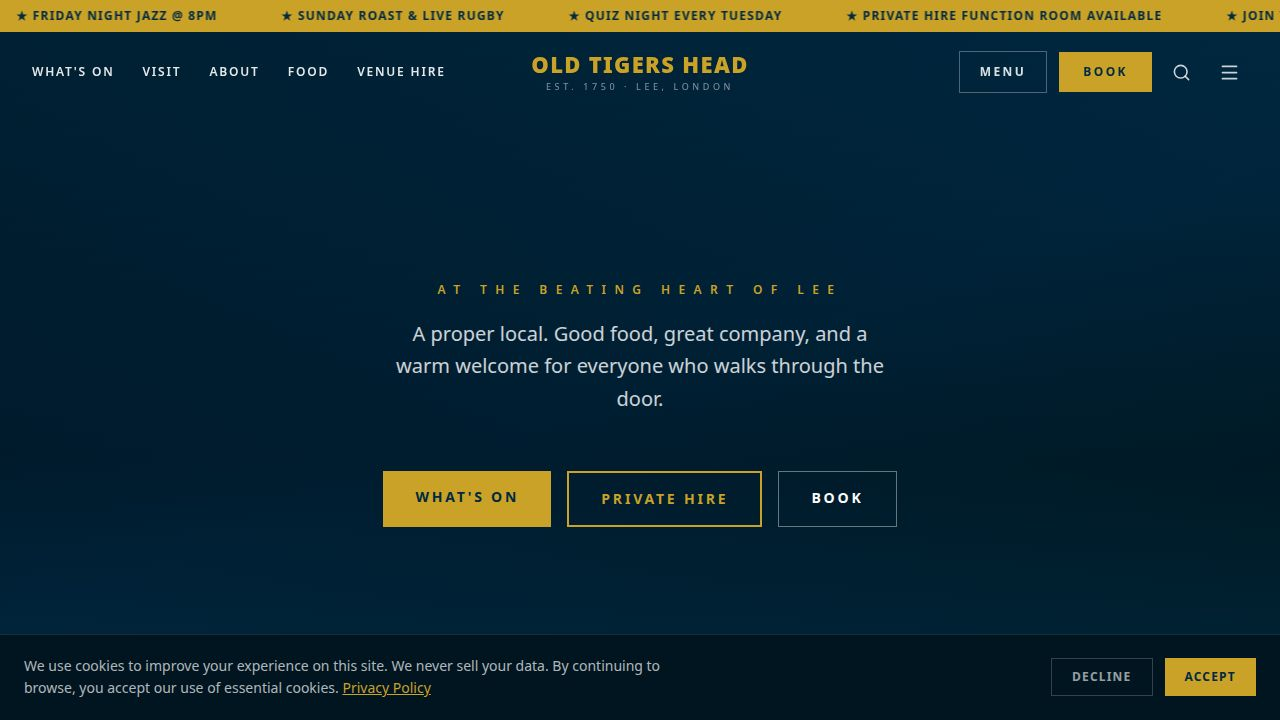
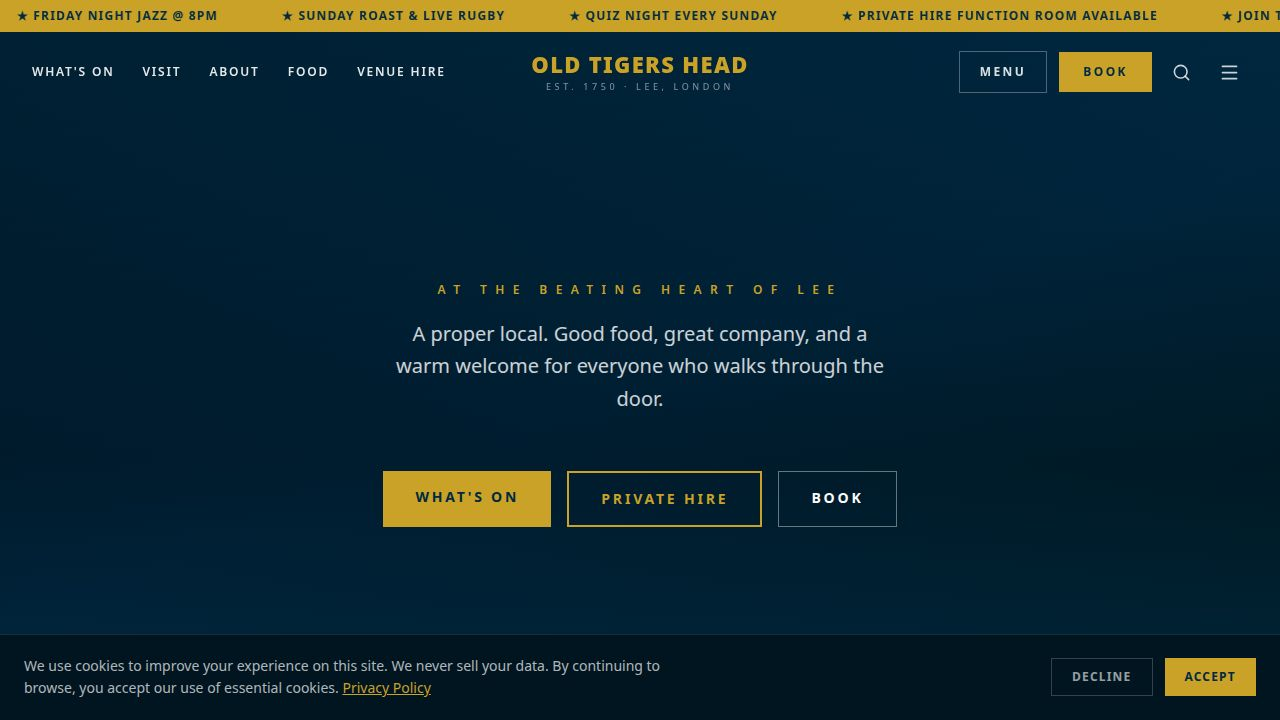
Add a dedicated contact page and update navigation links
Introduces a new /contact route with a contact form and details, and refactors the hamburger menu structure in src/pages/home.tsx. Updates src/App.tsx to include the new route.

Replit-Commit-Author: Agent
Replit-Commit-Session-Id: 77856931-5898-4f3b-aad7-9007563f8a7e
Replit-Commit-Checkpoint-Type: full_checkpoint
Replit-Commit-Event-Id: 820e7d4d-55b4-4fa4-ad7a-895b789ac6db
Replit-Commit-Screenshot-Url: https://storage.googleapis.com/screenshot-production-us-central1/ab6dba5f-e8a9-4150-879f-d3203998520e/77856931-5898-4f3b-aad7-9007563f8a7e/E2Tb1Rt
Replit-Helium-Checkpoint-Created: true

diff --git a/artifacts/oth-website/src/pages/contact.tsx b/artifacts/oth-website/src/pages/contact.tsx
@@ -1,0 +1,285 @@
+import { useState } from "react";
+import { MapPin, Phone, Mail, Clock, ChevronRight } from "lucide-react";
+
+const NAVY = "#002942";
+const GOLD = "#C9A227";
+const FONT = "'Century Gothic', 'Avant Garde', CenturyGothic, AppleGothic, sans-serif";
+
+export default function Contact() {
+  const [form, setForm] = useState({ name: "", email: "", subject: "", message: "" });
+  const [errors, setErrors] = useState<Record<string, string>>({});
+  const [submitted, setSubmitted] = useState(false);
+
+  function handleSubmit(e: React.FormEvent) {
+    e.preventDefault();
+    const errs: Record<string, string> = {};
+    if (!form.name.trim()) errs.name = "Please enter your name";
+    if (!form.email.trim() || !/\S+@\S+\.\S+/.test(form.email)) errs.email = "Please enter a valid email address";
+    if (!form.message.trim()) errs.message = "Please write a message";
+    setErrors(errs);
+    if (Object.keys(errs).length === 0) setSubmitted(true);
+  }
+
+  function field(key: keyof typeof form) {
+    return {
+      value: form[key],
+      onChange: (e: React.ChangeEvent<HTMLInputElement | HTMLTextAreaElement | HTMLSelectElement>) =>
+        setForm((f) => ({ ...f, [key]: e.target.value })),
+    };
+  }
+
+  return (
+    <div style={{ fontFamily: FONT, backgroundColor: NAVY }} className="min-h-screen">
+      {/* Nav strip */}
+      <nav className="px-8 py-5 border-b border-white/10 flex items-center justify-between" style={{ backgroundColor: NAVY }} aria-label="Page navigation">
+        <a
+          href="/"
+          className="font-black uppercase tracking-widest text-sm transition-colors hover:text-white flex items-center gap-2"
+          style={{ color: GOLD }}
+        >
+          ← Old Tigers Head
+        </a>
+        <a
+          href="#book"
+          className="text-xs font-bold tracking-widest uppercase px-5 py-2.5 transition-all hover:brightness-90"
+          style={{ backgroundColor: GOLD, color: NAVY }}
+          onClick={(e) => { e.preventDefault(); window.location.href = "/#book"; }}
+        >
+          Book a Table
+        </a>
+      </nav>
+
+      <div className="max-w-5xl mx-auto px-6 py-16">
+        {/* Header */}
+        <div className="text-center mb-16">
+          <p className="text-xs tracking-[0.5em] uppercase font-semibold mb-3" style={{ color: GOLD }}>
+            We'd love to hear from you
+          </p>
+          <h1 className="text-white text-4xl md:text-5xl font-black uppercase tracking-wide" style={{ fontFamily: FONT }}>
+            Contact Us
+          </h1>
+          <div className="mt-4 w-16 h-0.5 mx-auto" style={{ backgroundColor: GOLD }} />
+        </div>
+
+        <div className="grid lg:grid-cols-2 gap-16">
+
+          {/* ── LEFT: Contact Details ── */}
+          <div className="space-y-8">
+
+            {/* Address */}
+            <div className="border border-white/10 p-7" style={{ backgroundColor: "rgba(255,255,255,0.03)" }}>
+              <div className="text-[10px] font-bold tracking-widest uppercase mb-4" style={{ color: GOLD }}>Find Us</div>
+              <div className="flex items-start gap-3 mb-4">
+                <MapPin size={16} className="flex-shrink-0 mt-0.5" style={{ color: GOLD }} />
+                <div>
+                  <div className="text-white font-bold text-sm">The Old Tigers Head</div>
+                  <div className="text-white/60 text-sm mt-1 leading-relaxed">
+                    351 Lee High Road<br />Lee Green<br />London SE12 8RU
+                  </div>
+                </div>
+              </div>
+              <a
+                href="https://maps.google.com/?q=351+Lee+High+Road+London+SE12+8RU"
+                target="_blank"
+                rel="noopener noreferrer"
+                className="inline-flex items-center gap-2 text-[11px] font-bold tracking-widest uppercase transition-colors hover:text-white"
+                style={{ color: GOLD }}
+              >
+                Open in Google Maps <ChevronRight size={11} />
+              </a>
+            </div>
+
+            {/* Phone & Email */}
+            <div className="border border-white/10 p-7" style={{ backgroundColor: "rgba(255,255,255,0.03)" }}>
+              <div className="text-[10px] font-bold tracking-widest uppercase mb-4" style={{ color: GOLD }}>Get in Touch</div>
+              <div className="space-y-4">
+                <div className="flex items-center gap-3">
+                  <Phone size={15} className="flex-shrink-0" style={{ color: GOLD }} />
+                  <div>
+                    <div className="text-white/40 text-[10px] uppercase tracking-wider mb-0.5">Phone</div>
+                    <a href="tel:[phone redacted]" className="text-white text-sm font-semibold hover:text-[#C9A227] transition-colors">
+                      020 4568 0111
+                    </a>
+                  </div>
+                </div>
+                <div className="flex items-center gap-3">
+                  <Mail size={15} className="flex-shrink-0" style={{ color: GOLD }} />
+                  <div>
+                    <div className="text-white/40 text-[10px] uppercase tracking-wider mb-0.5">Email</div>
+                    <a href="mailto:[email redacted]" className="text-white text-sm font-semibold hover:text-[#C9A227] transition-colors">
+                      [email redacted]
+                    </a>
+                  </div>
+                </div>
+              </div>
+            </div>
+
+            {/* Opening Hours */}
+            <div className="border border-white/10 p-7" style={{ backgroundColor: "rgba(255,255,255,0.03)" }}>
+              <div className="flex items-center gap-2 mb-4">
+                <Clock size={13} style={{ color: GOLD }} />
+                <div className="text-[10px] font-bold tracking-widest uppercase" style={{ color: GOLD }}>Opening Hours</div>
+              </div>
+              <div className="space-y-2 text-sm">
+                {[
+                  { days: "Mon – Thu", hours: "12pm – 11pm" },
+                  { days: "Fri – Sat", hours: "12pm – 12am" },
+                  { days: "Sunday", hours: "12pm – 10pm" },
+                ].map((row) => (
+                  <div key={row.days} className="flex justify-between">
+                    <span className="text-white/55">{row.days}</span>
+                    <span className="text-white font-semibold">{row.hours}</span>
+                  </div>
+                ))}
+                <div className="border-t border-white/10 mt-3 pt-3 space-y-1">
+                  <div className="flex justify-between text-sm">
+                    <span className="text-white/35">Kitchen – lunch</span>
+                    <span className="text-white/60">12pm – 4pm</span>
+                  </div>
+                  <div className="flex justify-between text-sm">
+                    <span className="text-white/35">Kitchen – dinner</span>
+                    <span className="text-white/60">5pm – 9pm</span>
+                  </div>
+                </div>
+              </div>
+            </div>
+
+            {/* Quick links */}
+            <div className="flex flex-wrap gap-3">
+              {[
+                { label: "Book a Table", href: "/#book" },
+                { label: "Venue Hire", href: "/#hire" },
+                { label: "FAQs", href: "/#faq" },
+              ].map((btn) => (
+                <a
+                  key={btn.label}
+                  href={btn.href}
+                  className="text-[11px] font-bold tracking-widest uppercase px-5 py-2.5 border transition-all hover:border-[#C9A227] hover:text-[#C9A227]"
+                  style={{ borderColor: "rgba(255,255,255,0.2)", color: "rgba(255,255,255,0.65)" }}
+                >
+                  {btn.label}
+                </a>
+              ))}
+            </div>
+          </div>
+
+          {/* ── RIGHT: Get in Touch Form ── */}
+          <div>
+            <div className="text-[10px] font-bold tracking-widest uppercase mb-6" style={{ color: GOLD }}>Send Us a Message</div>
+
+            {submitted ? (
+              <div className="border border-white/10 p-12 text-center" style={{ backgroundColor: "rgba(255,255,255,0.03)" }}>
+                <div
+                  className="w-14 h-14 flex items-center justify-center mx-auto mb-5 font-black text-xl"
+                  style={{ backgroundColor: GOLD, color: NAVY }}
+                >
+                  ✓
+                </div>
+                <div className="text-xl font-black uppercase tracking-wide text-white mb-3" style={{ fontFamily: FONT }}>
+                  Message Received
+                </div>
+                <p className="text-white/55 text-sm leading-relaxed mb-6">
+                  Thanks, {form.name.split(" ")[0]}. We'll get back to you as soon as we can — usually within 24 hours.
+                </p>
+                <button
+                  onClick={() => { setSubmitted(false); setForm({ name: "", email: "", subject: "", message: "" }); }}
+                  className="text-xs font-bold tracking-widest uppercase transition-colors hover:text-white"
+                  style={{ color: GOLD }}
+                >
+                  Send another message
+                </button>
+              </div>
+            ) : (
+              <form onSubmit={handleSubmit} noValidate className="space-y-5">
+                <div>
+                  <label className="block text-[10px] font-bold tracking-widest uppercase mb-2" style={{ color: "rgba(255,255,255,0.5)" }}>
+                    Your Name *
+                  </label>
+                  <input
+                    type="text"
+                    placeholder="Full name"
+                    {...field("name")}
+                    className="w-full bg-transparent border px-4 py-3 text-white text-sm placeholder:text-white/25 outline-none focus:border-[#C9A227] transition-colors"
+                    style={{ borderColor: errors.name ? "#ef4444" : "rgba(255,255,255,0.15)" }}
+                  />
+                  {errors.name && <p className="text-red-400 text-xs mt-1">{errors.name}</p>}
+                </div>
+
+                <div>
+                  <label className="block text-[10px] font-bold tracking-widest uppercase mb-2" style={{ color: "rgba(255,255,255,0.5)" }}>
+                    Email Address *
+                  </label>
+                  <input
+                    type="email"
+                    placeholder="[email redacted]"
+                    {...field("email")}
+                    className="w-full bg-transparent border px-4 py-3 text-white text-sm placeholder:text-white/25 outline-none focus:border-[#C9A227] transition-colors"
+                    style={{ borderColor: errors.email ? "#ef4444" : "rgba(255,255,255,0.15)" }}
+                  />
+                  {errors.email && <p className="text-red-400 text-xs mt-1">{errors.email}</p>}
+                </div>
+
+                <div>
+                  <label className="block text-[10px] font-bold tracking-widest uppercase mb-2" style={{ color: "rgba(255,255,255,0.5)" }}>
+                    Subject
+                  </label>
+                  <select
+                    {...field("subject")}
+                    className="w-full border px-4 py-3 text-white text-sm outline-none focus:border-[#C9A227] transition-colors appearance-none cursor-pointer"
+                    style={{ backgroundColor: "#001a2e", borderColor: "rgba(255,255,255,0.15)" }}
+                  >
+                    <option value="">Select a topic...</option>
+                    {[
+                      "Table booking enquiry",
+                      "Venue hire / private events",
+                      "General enquiry",
+                      "Feedback",
+                      "Press or media",
+                      "Something else",
+                    ].map((opt) => (
+                      <option key={opt} value={opt}>{opt}</option>
+                    ))}
+                  </select>
+                </div>
+
+                <div>
+                  <label className="block text-[10px] font-bold tracking-widest uppercase mb-2" style={{ color: "rgba(255,255,255,0.5)" }}>
+                    Message *
+                  </label>
+                  <textarea
+                    placeholder="How can we help?"
+                    rows={6}
+                    {...field("message")}
+                    className="w-full bg-transparent border px-4 py-3 text-white text-sm placeholder:text-white/25 outline-none focus:border-[#C9A227] transition-colors resize-none"
+                    style={{ borderColor: errors.message ? "#ef4444" : "rgba(255,255,255,0.15)" }}
+                  />
+                  {errors.message && <p className="text-red-400 text-xs mt-1">{errors.message}</p>}
+                </div>
+
+                <button
+                  type="submit"
+                  className="w-full text-sm font-bold tracking-[0.2em] uppercase py-4 transition-all hover:brightness-90"
+                  style={{ backgroundColor: GOLD, color: NAVY }}
+                >
+                  Send Message
+                </button>
+
+                <p className="text-white/25 text-xs text-center">
+                  For bookings, use our <a href="/#book" className="underline hover:text-white/50 transition-colors">booking form</a>. For urgent queries, call us on{" "}
+                  <a href="tel:[phone redacted]" className="underline hover:text-white/50 transition-colors">[phone redacted]</a>.
+                </p>
+              </form>
+            )}
+          </div>
+        </div>
+      </div>
+
+      {/* Footer strip */}
+      <div className="mt-16 border-t border-white/10 py-8 text-center" style={{ backgroundColor: "#001520" }}>
+        <a href="/" className="text-white/30 text-xs tracking-widest uppercase hover:text-white/55 transition-colors">
+          ← Back to the Old Tigers Head
+        </a>
+      </div>
+    </div>
+  );
+}

diff --git a/artifacts/oth-website/src/pages/home.tsx b/artifacts/oth-website/src/pages/home.tsx
@@ -477,8 +477,16 @@ export default function Home() {
             </button>
           </div>
           <div className="flex-1 overflow-y-auto px-10 py-10">
-            <div className="space-y-6 mb-12">
-              {navLinksLeft.map((link, i) => (
+            <div className="space-y-5">
+              {[
+                { label: "What's On", href: "#whats-on" },
+                { label: "Visit", href: "#visit" },
+                { label: "About", href: "#about" },
+                { label: "Menu", href: "#food" },
+                { label: "Venue Hire", href: "#hire" },
+                { label: "Contact", href: "/contact" },
+                { label: "Staff Portal", href: "/staff" },
+              ].map((link, i, arr) => (
                 <div key={link.label}>
                   <a
                     href={link.href}
@@ -488,36 +496,9 @@ export default function Home() {
                     <span>{link.label}</span>
                     <ChevronRight size={18} className="text-white/20 group-hover:text-[#C9A227] transition-colors" />
                   </a>
-                  {i < navLinksLeft.length - 1 && <div className="mt-5 border-b border-white/10" />}
+                  {i < arr.length - 1 && <div className="mt-4 border-b border-white/10" />}
                 </div>
               ))}
-            </div>
-
-            {/* Contact section */}
-            <div className="border-t border-white/10 pt-8">
-              <div className="text-[10px] font-bold tracking-[0.4em] uppercase mb-5" style={{ color: GOLD }}>Contact</div>
-              <div className="grid grid-cols-2 gap-3">
-                {[
-                  { label: "Book a Table", href: "#book", solid: true },
-                  { label: "Venue Hire", href: "#hire", solid: false },
-                  { label: "Get in Touch", href: `mailto:[email redacted]`, solid: false },
-                  { label: "FAQs", href: "#faq", solid: false },
-                  { label: "Staff Portal", href: "/staff", solid: false },
-                ].map((btn) => (
-                  <a
-                    key={btn.label}
-                    href={btn.href}
-                    onClick={() => setMenuOpen(false)}
-                    className="text-center text-xs font-bold tracking-widest uppercase py-3.5 transition-all"
-                    style={btn.solid
-                      ? { backgroundColor: GOLD, color: NAVY }
-                      : { border: `1px solid rgba(255,255,255,0.2)`, color: "rgba(255,255,255,0.75)" }
-                    }
-                  >
-                    {btn.label}
-                  </a>
-                ))}
-              </div>
             </div>
           </div>
           <div className="px-10 py-6 border-t border-white/10 flex gap-3">

diff --git a/artifacts/oth-website/src/App.tsx b/artifacts/oth-website/src/App.tsx
@@ -7,6 +7,7 @@ import Home from "@/pages/home";
 import Community from "@/pages/community";
 import Staff from "@/pages/staff";
 import Privacy from "@/pages/privacy";
+import Contact from "@/pages/contact";
 
 const queryClient = new QueryClient();
 
@@ -17,6 +18,7 @@ function Router() {
       <Route path="/community" component={Community} />
       <Route path="/staff" component={Staff} />
       <Route path="/privacy" component={Privacy} />
+      <Route path="/contact" component={Contact} />
       <Route component={NotFound} />
     </Switch>
   );